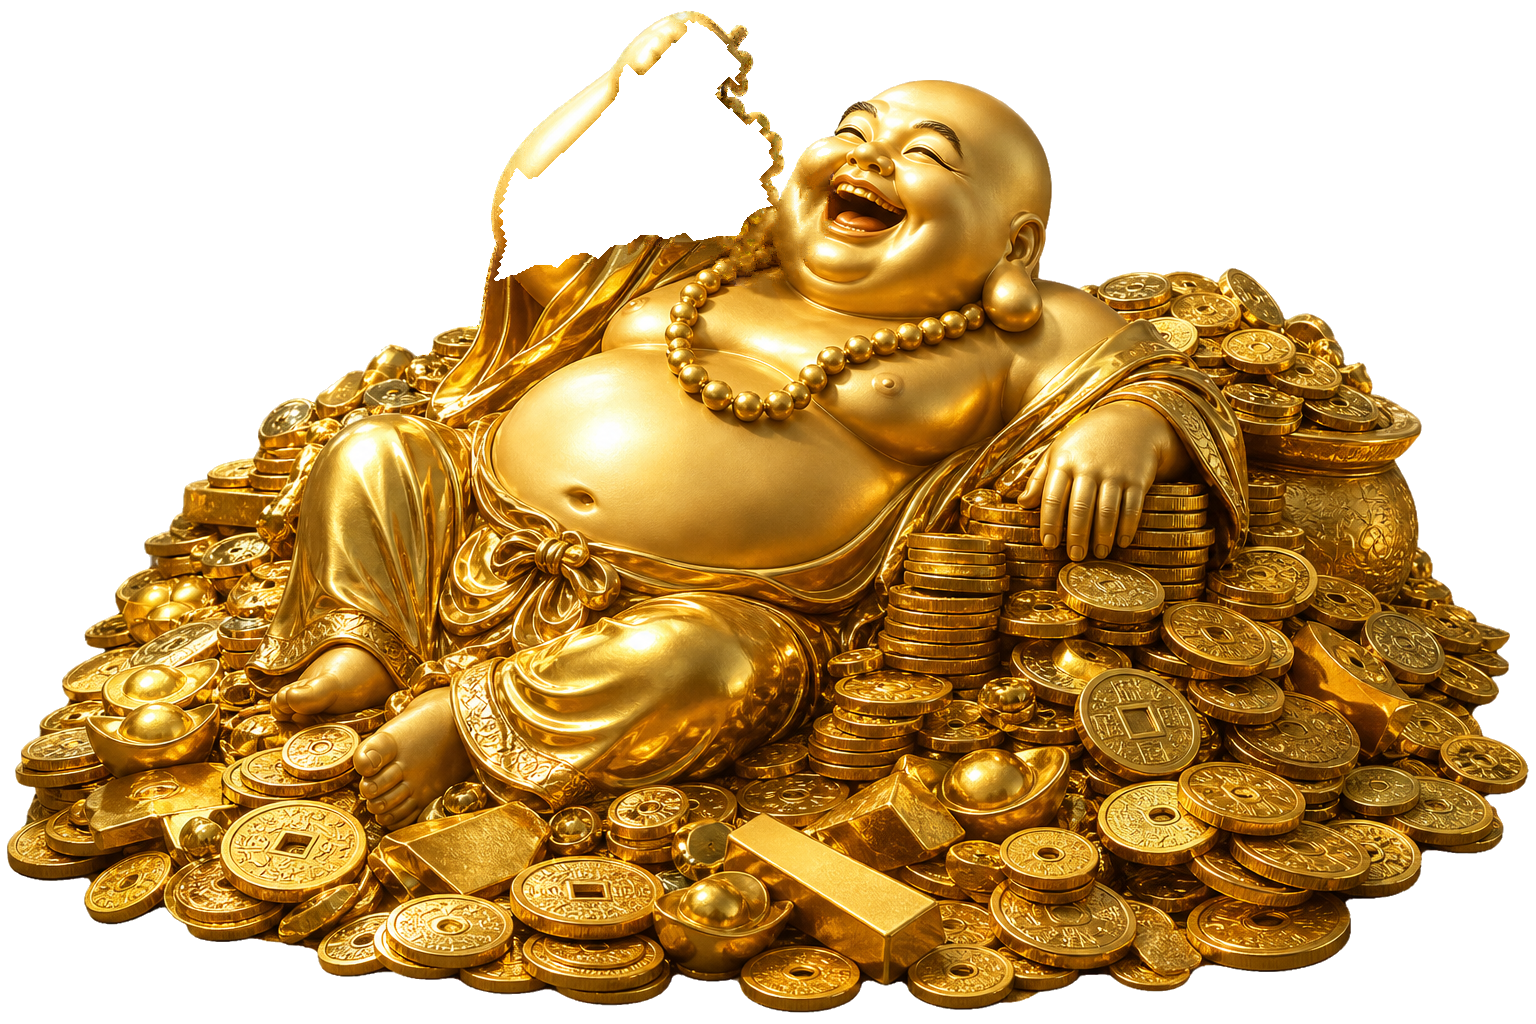
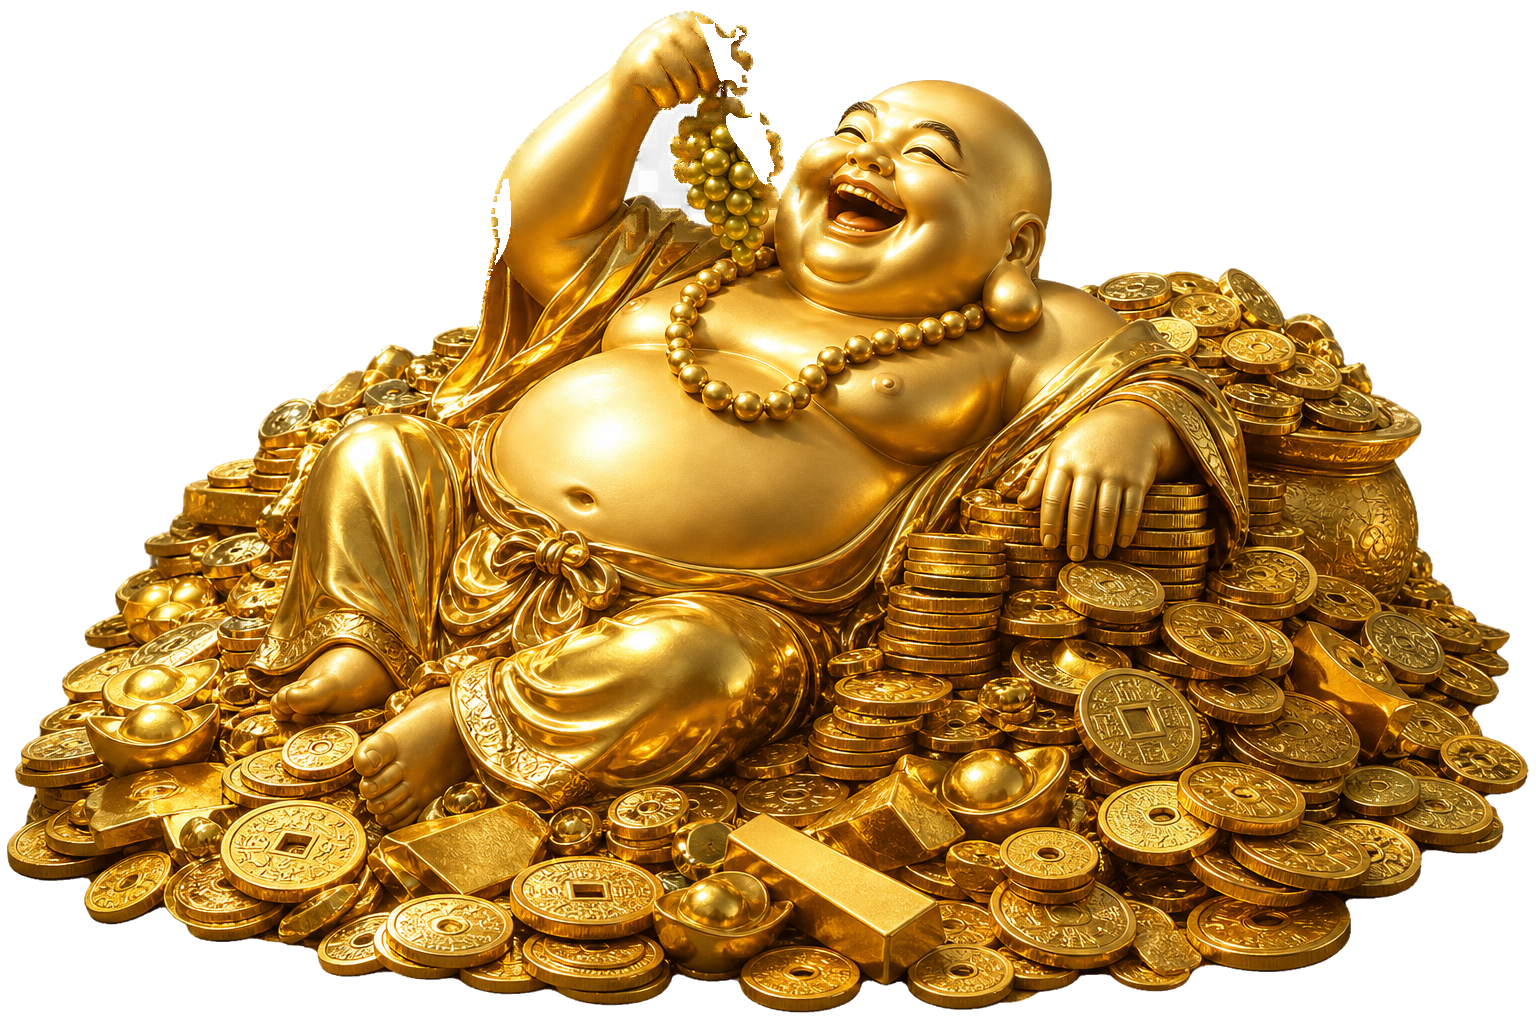
Answer "what was behind the arm" from the master alone
`part-plate-armless.webp` is written by `scene-parts.py` — it is a derived
render, and the brief bars a derived render as the source for hidden art. Its
own doctrine block already said why it cannot answer this question: it is a
different pose, not a photograph of what the arm hid. Measured, it is worse
than unhelpful: it is transparent exactly where the LOWERED arm hung, which is
where the RAISED arm attaches, so it called the shoulder root background.

The rule is now built from the master and nothing else. The master's silhouette
is a contour; the hidden part of it is what continues it, so the alpha is
extended across the limb's footprint as a membrane — the master's own visible
pixels as Dirichlet data, solved inward. Its 0.5 level is the smoothest contour
joining the master's own edges, and it decides body-or-page per pixel.

Two defects found on the way, both fixed:

* the membrane solver exited when the largest change per sweep fell below a
  tolerance. Jacobi carries information one cell per sweep, so while a field is
  still spreading its largest change is small — the test fires before the field
  has travelled, and the membrane came back as a film around the rim (5,770 px).
  Measured afterwards: 0.85 only two pixels from an open sky edge that must be 0.
  Replaced with a cascade from a grid coarse enough to relax in full, seeded
  level by level; the residual is reported (0.0026 levels).
[…]

Changed region(s): [[0.3125, 0.0, 0.5312, 0.2812]]

diff --git a/app/scripts/buddha-rig-art.py b/app/scripts/buddha-rig-art.py
@@ -217,81 +217,71 @@ r_piv = np.hypot(xx - PIVOT[0], yy - PIVOT[1])
 SOCKET = GROUP & (r_piv < 90.0) & FIGURE
 ARM_M = (ARM_M | SOCKET) & ~GRAPES_M
 
-# ── 4. WHAT IS BEHIND THE GROUP ─────────────────────────────────────────────
-# When the limb swings it uncovers whatever was behind it, so the plate has to
-# know which of two things that is — and the artist's own armless plate says:
-# transparent behind means the page showed through there, opaque-and-different
-# means the body was behind.
+# ── 4. WHAT IS BEHIND THE LIMB — and it is not the artist's plate ───────────
+# The previous build answered "what is behind the arm?" from
+# `part-plate-armless.webp`. That file is not the artist's: `scene-parts.py`
+# writes it, and this repo's own note from before the reset already said why it
+# cannot answer the question —
 #
-# This matters most at the fruit, where the cluster hangs half over the
-# background and half over the chin it throws a shadow onto. Treating all of it
-# as "hidden body" would reconstruct gold into empty air; treating none of it
-# would leave the chin's painted shadow behind when the fruit swings away — a
-# stale smudge, which is the same class of defect as the old build's 698 px of
-# stale cluster. 5,567 px of that shadow sits over the body and has to move with
-# the fruit; 422 px of it sits over background.
-# The artist's plate answers in 768, so upscaled and thresholded its boundary is a
-# staircase with two-pixel steps and thin slivers crossing the limb — a torn edge
-# waiting to be uncovered. Measured on the boundary itself: median-3 plus a 2 px
-# opening takes the boundary from 1,613 px to 1,049 px for 937 px of area, and
-# 937 px at master resolution is a tenth of a display pixel in the scene.
-_raw = up(_plate768[..., 3] <= 0.5) & FIGURE & (ARM_M | GRAPES_M)
-_BG_SMOOTH = Image.fromarray((_raw * 255).astype(np.uint8)).filter(ImageFilter.MedianFilter(7))
-_BG_SMOOTH = np.asarray(_BG_SMOOTH) > 127
-for _ in range(2):
-    _BG_SMOOTH = np.asarray(Image.fromarray((_BG_SMOOTH * 255).astype(np.uint8))
-                            .filter(ImageFilter.MinFilter(3))) > 127
-for _ in range(2):
-    _BG_SMOOTH = np.asarray(Image.fromarray((_BG_SMOOTH * 255).astype(np.uint8))
-                            .filter(ImageFilter.MaxFilter(3))) > 127
-PLATE_EMPTY = _BG_SMOOTH & FIGURE & (ARM_M | GRAPES_M)
-
-# AND THE APRON — the defect that tore the shoulder.
-# The artist's plate has a second blind spot. It is transparent wherever the
-# LOWERED arm hung in the arm-down state, and that is exactly where the RAISED arm
-# is attached to the body. So "behind the limb = background" came out true across
-# the limb's entire root: the first swing lifted the root away from the robe and
-# left the page showing through the middle of the figure. That is the torn edge
-# the brief names first, and it is visible in
-# docs/evidence/round56/24-shoulder-junction.png.
+#     "The arm-down picture cannot answer this question: it is a different pose,
+#      not a photograph of what was behind the arm. Nothing can, which is why the
+#      answer is not to invent the missing drape."
 #
-# The apron fixes it by construction. Where the limb touches the body it is
-# ATTACHED to the body, so a narrow band inside the limb's own boundary is body —
-# grown from the body-adjacent boundary only, never from the boundary that faces
-# the background, which is why the sky crescent between the arm and the landscape
-# survives untouched. 10 px at master resolution is 1.1 display px in the scene
-# (the artwork is drawn at 172 CSS px), so it cannot misplace a silhouette.
+# Measured, it is worse than merely unhelpful: it is transparent wherever the
+# LOWERED arm hung, which is exactly where the RAISED arm attaches, so it called
+# the whole shoulder root "background" and the first swing tore the figure open.
+# A derived render cannot be the source of truth for hidden art, so it is gone
+# from this decision entirely. What follows is built from the master and nothing
+# else.
 _LIMB = ARM_M | GRAPES_M
-_BODY_VISIBLE = ~_LIMB & (MATTE > 0.5)
-_ring = np.zeros_like(_LIMB)
-_ring[1:, :] |= _BODY_VISIBLE[:-1, :]
-_ring[:-1, :] |= _BODY_VISIBLE[1:, :]
-_ring[:, 1:] |= _BODY_VISIBLE[:, :-1]
-_ring[:, :-1] |= _BODY_VISIBLE[:, 1:]
-_APRON_DEPTH = 10
-_d = np.full(_LIMB.shape, 1 << 20, np.int32)
-_q = deque()
-for _y, _x in zip(*np.where(_LIMB & _ring)):
-    _d[_y, _x] = 0
-    _q.append((_y, _x))
-_H, _W = _LIMB.shape
-while _q:
-    _cy, _cx = _q.popleft()
-    for _dy, _dx in ((1, 0), (-1, 0), (0, 1), (0, -1)):
-        _ny, _nx = _cy + _dy, _cx + _dx
-        if 0 <= _ny < _H and 0 <= _nx < _W and _LIMB[_ny, _nx] and _d[_ny, _nx] > _d[_cy, _cx] + 1:
-            _d[_ny, _nx] = _d[_cy, _cx] + 1
-            _q.append((_ny, _nx))
-APRON = _LIMB & (_d <= _APRON_DEPTH)
-BG_BEHIND = PLATE_EMPTY & ~APRON
-GENERATED = _LIMB & FIGURE & ~BG_BEHIND
-print(f"  the background boundary, from the artist's 768 plate: {int(_raw.sum()):,} px raw -> "
-      f"{int(PLATE_EMPTY.sum()):,} px smoothed (boundary 1,613 -> 1,049 px; 937 px differ, "
-      f"a tenth of a display pixel)")
-print(f"  behind the group: {int(PLATE_EMPTY.sum()):6d} px of background per the artist's own "
-      f"plate, {int(APRON.sum()):6d} px of it sealed to the body it is attached to "
-      f"({int((APRON & PLATE_EMPTY).sum()):,} px changed), "
-      f"{int(GENERATED.sum()):6d} px of body (to be reconstructed)")
+
+
+def _dil(m, r=1):
+    im = Image.fromarray((m * 255).astype(np.uint8))
+    for _ in range(r):
+        im = im.filter(ImageFilter.MaxFilter(3))
+    return np.asarray(im) > 127
+
+
+def _ero(m, r=1):
+    im = Image.fromarray((m * 255).astype(np.uint8))
+    for _ in range(r):
+        im = im.filter(ImageFilter.MinFilter(3))
+    return np.asarray(im) > 127
+
+
+def _rotated(mask, deg, pivot):
+    """`mask` turned about `pivot` by `deg`, the way the browser turns it."""
+    im = Image.fromarray((mask * 255).astype(np.uint8))
+    out = im.rotate(deg, resample=Image.NEAREST, center=(float(pivot[0]), float(pivot[1])))
+    return np.asarray(out) > 127
+
+
+def _kept(mask, angles, pivot):
+    """The coverage a part keeps through the whole gesture: the intersection of
+    its own poses. Both signs of every angle are taken, so the rotation
+    direction cannot matter, and the result is therefore a superset of whichever
+    convention the renderer uses."""
+    keep = mask.copy()
+    for a in angles:
+        keep &= _rotated(mask, a, pivot) & _rotated(mask, -a, pivot)
+    return keep
+
+
+# (a) WHICH HIDDEN PIXELS ARE EVER SEEN. The intended gesture is the CSS's own
+#     keyframes: the arm runs from 0 to -15 degrees (with a +6 on the way in) and
+#     the fruit sways about 5 degrees on its stem, independently. A pixel needs
+#     art painted behind it only if one of those motions exposes it — that is the
+#     set below, and it is measured, not assumed. The margin covers the mesh,
+#     which bends rather than rotating rigidly.
+_ARM_PIVOT = np.asarray(PIVOT, np.float64)
+_GRAPE_PIVOT = np.array([740.0, 90.0])       # `.mascot-grapes`: 48.18% 8.79%
+_ARM_ANGLES = (3.0, 6.0, 7.0, 15.0)
+_GRAPE_ANGLES = (1.5, 4.0, 4.5, 5.0)
+_KEEP = _kept(ARM_M, _ARM_ANGLES, _ARM_PIVOT) | _kept(GRAPES_M, _GRAPE_ANGLES, _GRAPE_PIVOT)
+UNCOVERED = _dil(_LIMB & ~_KEEP, 6) & _LIMB
+print(f"  the limb covers {int(_LIMB.sum()):,} px at rest; the intended gesture (arm to 15 "
+      f"deg, fruit to 5 deg, both signs) exposes {int(UNCOVERED.sum()):,} px of it")
 
 # ── 4. the machinery (carried over from the previous build, unchanged) ──────
 def _shift(a, dy, dx):
@@ -329,12 +319,16 @@ def harmonic(d, free, factor=4, iters=900):
     inner = f & ~(_shift(f, 1, 0) & _shift(f, -1, 0) & _shift(f, 0, 1) & _shift(f, 0, -1))
     c = np.where(inner, _fit(d, (w, h)), 0.0)
     upd = f & ~inner
+    # `iters` is run in full, deliberately. A max-change test would stop this
+    # early and wrongly: relaxation carries information one cell per sweep, so
+    # while the field is still spreading the largest change per sweep is tiny —
+    # the interior has not been reached yet, it is not converged. Testing the
+    # change instead of the result stops the solve before it has travelled, and
+    # the membrane comes back as a thin film around the rim. Counted sweeps at
+    # this size are cheap; a wrong fixed point is not.
     for _ in range(iters):
         nxt = (_shift(c, 1, 0) + _shift(c, -1, 0) + _shift(c, 0, 1) + _shift(c, 0, -1)) / 4.0
-        delta = np.where(upd, nxt - c, 0.0)
         c = np.where(upd, nxt, c)
-        if np.abs(delta).max() < 0.02:
-            break
     return _fit(c, (W, H))
 
 
@@ -347,11 +341,42 @@ def harmonic_exact(d, free, ring, init, iters=240):
     c[ring] = d[ring]
     for _ in range(iters):
         nxt = (_shift(c, 1, 0) + _shift(c, -1, 0) + _shift(c, 0, 1) + _shift(c, 0, -1)) / 4.0
-        delta = np.where(upd, nxt - c, 0.0)
         c = np.where(upd, nxt, c)
-        if np.abs(delta).max() < 0.05:
-            break
     return c
+
+
+def membrane(d, unknown, levels=(32, 16, 8, 4, 2, 1), iters=(2000, 400, 250, 200, 120, 60)):
+    """`d`, known everywhere outside `unknown`, extended across it: the harmonic
+    field with the known pixels as its boundary — the smoothest surface that
+    matches the artwork's own edge.
+
+    By CASCADE, and that is the whole point of the function. Plain Jacobi carries
+    information one cell per sweep, so on a 1,500-px figure full convergence is
+    millions of sweeps. The earlier two-level version stopped at a fixed count
+    and the interior kept whatever it was seeded with: measured, the field read
+    0.85 only two pixels from an open sky edge that has to be 0, which classified
+    sky as body all along the arm's own outline. Solving the low frequencies on a
+    grid small enough to relax in full, then seeding each finer level with the
+    level above, converges where the flat version cannot.
+
+    Returns (field, residual) — the residual is the largest change the last sweep
+    made, so it can be checked rather than believed."""
+    H, W = unknown.shape
+    c = None
+    for lev, it in zip(levels, iters):
+        h, w = max(H // lev, 8), max(W // lev, 8)
+        u = _fit(unknown.astype(np.float32), (w, h)) > 0.5
+        data = _fit(d, (w, h))
+        c = data if c is None else _fit(c, (w, h))
+        c = np.where(u, c, data)
+        for _ in range(it):
+            nxt = (_shift(c, 1, 0) + _shift(c, -1, 0) + _shift(c, 0, 1) + _shift(c, 0, -1)) / 4.0
+            c = np.where(u, nxt, c)
+    # the last sweep again, for the residual
+    nxt = (_shift(c, 1, 0) + _shift(c, -1, 0) + _shift(c, 0, 1) + _shift(c, 0, -1)) / 4.0
+    u = unknown
+    res = float(np.abs((nxt - c)[u]).max()) if u.any() else 0.0
+    return c, res
 
 
 def lum(rgb):
@@ -434,6 +459,36 @@ def exemplar_fill(rgb, known, target, patch=7, search=64, stride=3,
     return out, written
 
 
+# ── 4b. THE HIDDEN SILHOUETTE, solved from the master's own contour ─────────
+# With the derived plate gone, the question "was there body or background behind
+# this pixel?" is answered from the one source the brief allows: the master's own
+# visible art. The master's silhouette is a contour; the hidden part of that
+# contour is what continues it. So the alpha is extended across the limb's
+# footprint as a MEMBRANE — Dirichlet data taken from the master's own visible
+# pixels around the limb's edge, solved inward. The 0.5 level of that field is
+# the smoothest contour that joins the master's own edges, which is the same
+# principle as the exemplar fill: continue what is there, invent nothing.
+# The Dirichlet data is the master's own alpha everywhere the limb does not
+# cover: inside the figure it is 1, in the sky and in the open gaps it is 0.
+_solved, _res = membrane(MATTE.astype(np.float32), _LIMB)
+_HID_FIG = _solved > 0.5
+_edge_check = _dil(~(MATTE > 0.5), 2) & _LIMB & _HID_FIG
+print(f"  the membrane: residual {_res:.4f} levels after the last sweep; "
+      f"{int(_edge_check.sum()):,} px of it within 2 px of open sky (a converged field is ~0 there)")
+# A gold-favouring margin: a pixel wrongly called body costs one pixel of
+# invented gold, a pixel wrongly called background is a hole in the figure, and
+# the two are not equally bad.
+FIGURE_HIDDEN = (_HID_FIG | _dil(_HID_FIG, 2)) & _LIMB
+SKY_HIDDEN = _LIMB & ~FIGURE_HIDDEN
+GENERATED = UNCOVERED & FIGURE_HIDDEN
+print(f"  the hidden silhouette, solved from the master's own contour: "
+      f"{int(FIGURE_HIDDEN.sum()):,} px of body, {int(SKY_HIDDEN.sum()):,} px of background "
+      f"behind the limb")
+print(f"  of the {int(UNCOVERED.sum()):,} px the gesture exposes: {int(GENERATED.sum()):,} px are "
+      f"body and will be painted from the master's own gold; "
+      f"{int((UNCOVERED & SKY_HIDDEN).sum()):,} px are background and stay transparent — the "
+      f"page belongs there, exactly as it does around the raised arm")
+
 # ── 5. the plate: the master itself, rebuilt only where the limb hid it ─────
 plate_rgb = rgb_m.copy()          # the plate starts AS the master, untouched
 filled_mask = np.zeros(GENERATED.shape, bool)
@@ -441,7 +496,10 @@ filled_mask = np.zeros(GENERATED.shape, bool)
 if GENERATED.any() and "--skip-inpaint" not in sys.argv:
     print("   reconstructing under the limb, from the master's own gold …")
     L0 = lum(plate_rgb)
-    LIGHT_HINT = harmonic(L0, GENERATED)
+    # The guide is the light around the hole, extended inward. `membrane` takes
+    # its boundary from the master's own visible pixels, so the hole's contents —
+    # at rest the limb's pixels — cannot leak into the solve.
+    LIGHT_HINT, _lres = membrane(L0, GENERATED)
     # The source pool excludes the limb itself: filling the hole with the limb's
     # own pixels leaves a ghost of the raised arm in the plate.
     # The source pool excludes the whole group: filling the hole with the limb's
@@ -508,8 +566,8 @@ else:
 # under the layers that cover it — the body behind an arm is solid, and a second
 # edge under an edge blends the outline twice. One edge per pixel: on the top
 # layer where there is one, on the plate where there is not.
-plate_a = np.where(BG_BEHIND, 0.0,
-                   np.where(ARM_M | GRAPES_M, 1.0, MATTE)).astype(np.float32)
+plate_a = np.where(SKY_HIDDEN, 0.0,
+                   np.where(_LIMB, 1.0, MATTE)).astype(np.float32)
 print(f"   the silhouette's own edge: the master is flat RGB, so the drawn 768 ramp is an "
       f"estimate; over the page the rim light measures "
       f"+14.1 levels as drawn against -7.9 for any soft edge, so the alpha ships opaque "
@@ -522,22 +580,19 @@ _diff = np.abs(plate_rgb - rgb_m).max(axis=2)
 claimed = int((_diff[~GENERATED] > 4).sum())
 print(f"   outside the limb, the plate is the master: {claimed} px differ by more than 4 levels")
 assert claimed == 0, "the plate must never repaint what the master shows"
-_COVER = ARM_M | GRAPES_M
+_COVER = _LIMB
 _da = float(np.abs(plate_a - MATTE)[~_COVER].max())
 print(f"   outside the layers, the plate's alpha is the master's: max difference {_da * 255:.1f}/255")
 assert _da < 1e-6, "the plate's alpha outside the layers must be the master's"
-_body_behind = _COVER & ~BG_BEHIND
-_hidden = plate_a[_body_behind]
-print(f"   under the layers the plate follows what is behind: opaque over the body "
-      f"({_hidden.size:,} px, min alpha {_hidden.min() * 255:.0f}/255), transparent over the "
-      f"background ({int(BG_BEHIND.sum()):,} px)")
-print(f"   the apron: {int(APRON.sum()):,} px grown from the body-adjacent boundary to a depth "
-      f"of {_APRON_DEPTH} px — the limb is attached to the body there, so the plate is body")
+_hidden = plate_a[FIGURE_HIDDEN]
+print(f"   under the layers the plate is opaque over the hidden body "
+      f"({int(FIGURE_HIDDEN.sum()):,} px, min alpha {_hidden.min() * 255:.0f}/255) and "
+      f"transparent over the hidden background ({int(SKY_HIDDEN.sum()):,} px)")
 assert float(_hidden.min()) >= 1.0 - 1e-6, "the plate must be opaque where the body is behind"
-assert float(plate_a[BG_BEHIND].max()) <= 1e-6, \
-    "the plate must be transparent where the artist's own plate shows background"
-assert float(plate_a[APRON].min()) >= 1.0 - 1e-6, \
-    "the apron seals the limb to the body: the plate must be opaque across it"
+assert float(plate_a[SKY_HIDDEN].max()) <= 1e-6, \
+    "the plate must be transparent where the master's own contour says background"
+_no_paint = int((GENERATED & ~UNCOVERED).sum())
+assert _no_paint == 0, "nothing may be painted outside the set the gesture exposes"
 
 # ── 8. the layers ───────────────────────────────────────────────────────────
 def layer(mask):
